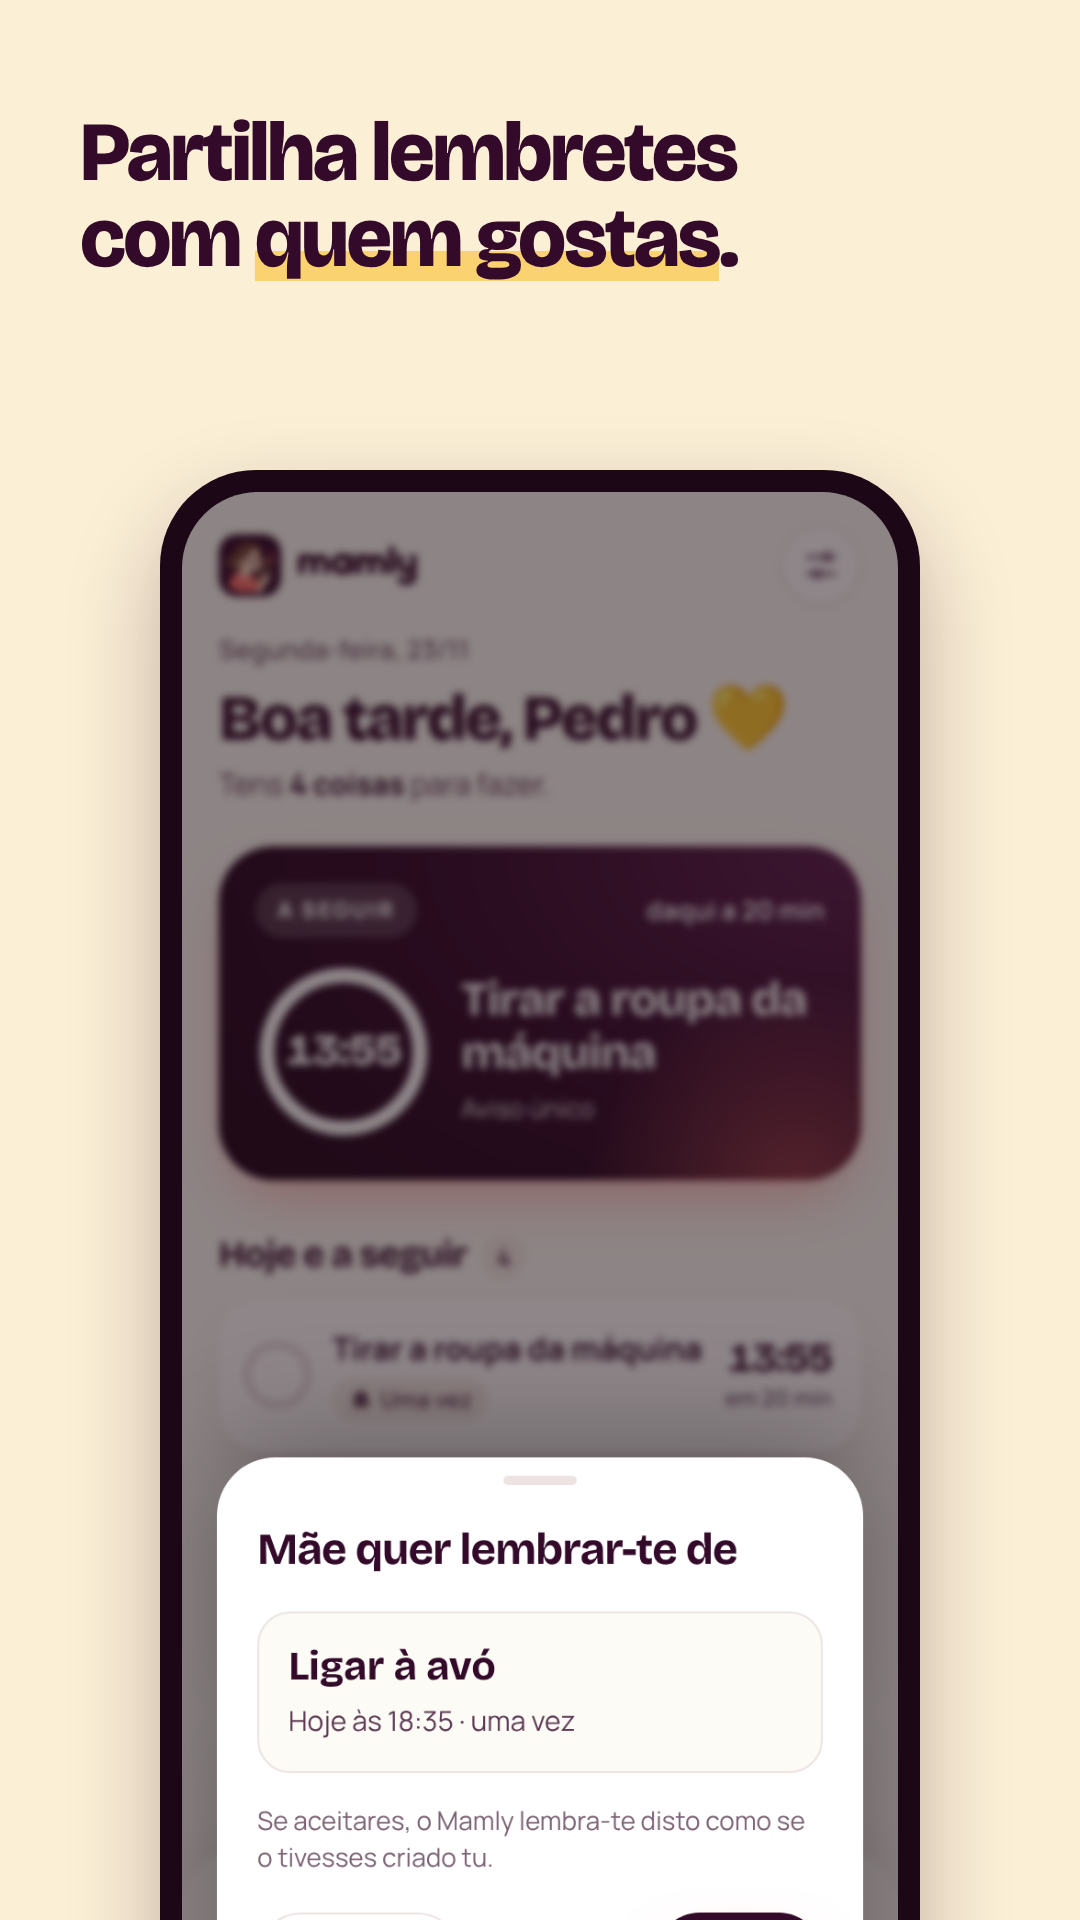
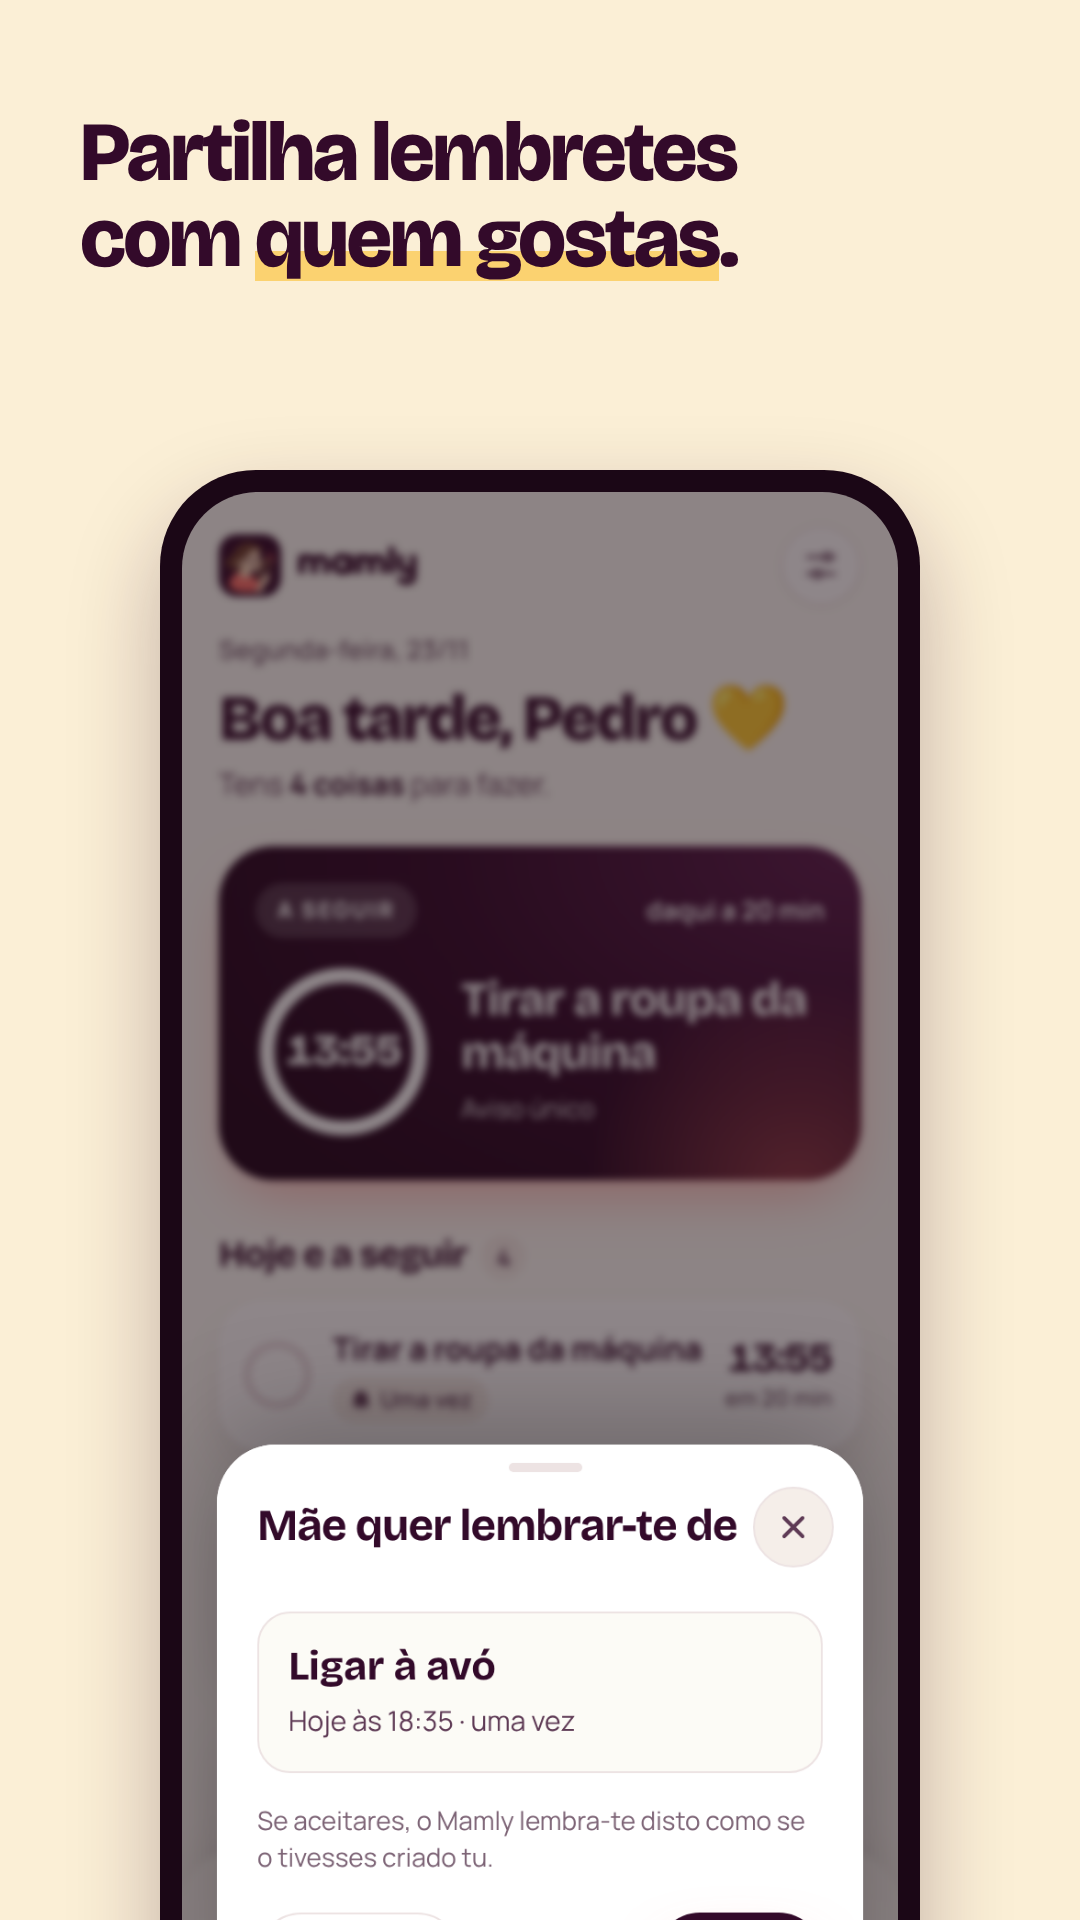
Refresh app screenshots with the new example; show repeat info on alerts
- store/app-shots.js regenerates the site screenshots (PT and EN) from the
  real web app; Play Store images and Instagram post 1 rebuilt from them.
- The full-screen alert for repeating reminders without a deadline now says
  e.g. "De meia em meia hora até às 17:00" instead of nothing. Version 3.1 (22).

Claude-Session: https://claude.ai/code/session_01Vz2moDb866Xe6U8hfWhM98

Changed region(s): [[0.1833, 0.75, 0.7944, 0.8125]]

diff --git a/store/app-shots.js b/store/app-shots.js
@@ -1,0 +1,70 @@
+// Refaz as capturas da app usadas no site, na Play Store e no Instagram.
+// node store/app-shots.js   (depois: node store/gen.js e node store/instagram-posts.js)
+const { chromium } = require('playwright');
+const http = require('http'), fs = require('fs'), path = require('path');
+const root = path.resolve(__dirname, '..');
+const WEB = path.join(root, 'web');
+const TYPES = { '.html': 'text/html', '.js': 'text/javascript', '.css': 'text/css', '.svg': 'image/svg+xml', '.png': 'image/png', '.woff2': 'font/woff2', '.webmanifest': 'application/json' };
+
+const LANGS = {
+  pt: {
+    out: 'site/img', locale: 'pt-PT', name: 'Pedro',
+    say: ['De 30 em 30 minutos das 13h às 17h avisa-me para pagar a conta da luz', 'Daqui a 20 minutos tirar a roupa da máquina', 'De meia em meia hora beber água', 'Amanhã às 9 ligar ao dentista'],
+    alert: ['Pagar a conta da luz', 'Lembrete', 'De meia em meia hora até às 17:00'],
+    share: ['Ligar à avó', 'Mãe'],
+  },
+  en: {
+    out: 'site/img/en', locale: 'en-GB', name: 'Sam',
+    say: ['Every 30 minutes from 1pm to 5pm remind me to pay the electricity bill', 'In 20 minutes take the laundry out', 'Every half hour drink water', 'Tomorrow at 9 call the dentist'],
+    alert: ['Pay the electricity bill', 'Reminder', 'Every half hour until 17:00'],
+    share: ['Call grandma', 'Mom'],
+  },
+};
+
+(async () => {
+  const server = http.createServer((req, res) => {
+    let f = path.join(WEB, decodeURIComponent(req.url.split(/[?#]/)[0]));
+    if (f.endsWith('/')) f += 'index.html';
+    if (!f.startsWith(WEB) || !fs.existsSync(f)) { res.writeHead(404); return res.end(); }
+    res.writeHead(200, { 'Content-Type': TYPES[path.extname(f)] || 'application/octet-stream' });
+    fs.createReadStream(f).pipe(res);
+  }).listen(0);
+  const URL = 'http://localhost:' + server.address().port + '/';
+  const b = await chromium.launch();
+
+  for (const T of Object.values(LANGS)) {
+    const OUT = path.join(root, T.out);
+    const mk = async (scheme) => {
+      const ctx = await b.newContext({ viewport: { width: 390, height: 844 }, deviceScaleFactor: 2, colorScheme: scheme, reducedMotion: 'reduce', locale: T.locale });
+      const page = await ctx.newPage();
+      await page.clock.install({ time: new Date(2026, 10, 23, 13, 35) });
+      await page.addInitScript(() => {
+        window.AndroidBridge = { version(){return '3.0'}, log(){}, voices(){return '[]'}, setVoice(){}, speak(t,r,tok){ setTimeout(()=>__native.onSpeakDone(tok),5); }, stopSpeaking(){}, listen(){}, stopListening(){}, sync(){}, takeActions(){ return '[]'; }, cancelNotification(){}, keepScreenOn(){}, testNow(){}, diag(){ return '{}'; }, status(){ return '{"notifications":true,"exact":true,"battery":true,"tts":true}'; }, openBatterySettings(){}, openNotificationSettings(){}, openAlarmSettings(){}, openVoiceInstall(){}, openTtsSettings(){}, share(){}, takeSharedLink(){ return ''; } };
+      });
+      await page.goto(URL);
+      await page.evaluate((name) => { localStorage.clear(); localStorage.setItem('lembretes.settings.v1', JSON.stringify({ name, momMode: true })); }, T.name);
+      await page.reload();
+      for (const t of T.say) { await page.evaluate(t => window.__lembretes.handleInput(t), t); await page.clock.runFor(300); }
+      await page.clock.runFor(10000);
+      await page.evaluate(() => { document.getElementById('toast').hidden = true; });
+      return page;
+    };
+    const light = await mk('light');
+    await light.screenshot({ path: `${OUT}/ecra-inicio.png` });
+    await light.evaluate(([task, kicker, meta]) => { document.getElementById('alert').hidden = false; document.getElementById('alertTask').textContent = task; document.getElementById('alertKicker').textContent = kicker; document.getElementById('alertMeta').textContent = meta; }, T.alert);
+    await light.screenshot({ path: `${OUT}/ecra-aviso.png` });
+    await light.evaluate(() => { document.getElementById('alert').hidden = true; });
+    await light.click('#openSettings'); await light.waitForTimeout(300);
+    await light.evaluate(() => { document.getElementById('sMom').closest('label').scrollIntoView({ block: 'center' }); });
+    await light.waitForTimeout(200);
+    await light.screenshot({ path: `${OUT}/ecra-modo-mae.png` });
+    await light.evaluate(() => document.getElementById('settingsDlg').close());
+    await light.evaluate(([t, n]) => { const data = { v: 1, t, i: 0, o: 1, f: Date.now() + 5 * 3600e3, e: 0, d: 0, n };
+      location.hash = 'r=' + btoa(unescape(encodeURIComponent(JSON.stringify(data)))).replace(/\+/g, '-').replace(/\//g, '_').replace(/=+$/, ''); }, T.share);
+    await light.waitForTimeout(500);
+    await light.screenshot({ path: `${OUT}/ecra-partilha.png` });
+    const dark = await mk('dark');
+    await dark.screenshot({ path: `${OUT}/ecra-escuro.png` });
+  }
+  await b.close(); server.close(); console.log('ok');
+})();

diff --git a/web/app.js b/web/app.js
@@ -433,7 +433,8 @@
     $('alert').scrollTop = 0;
     $('alertKicker').textContent = (EN ? { final: 'Last call', deadline: "Time's up", snooze: 'Again', once: "It's time" } : { final: 'Último aviso', deadline: 'Hora limite', snooze: 'Outra vez', once: 'Está na hora' })[kind] || L('Lembrete', 'Reminder');
     $('alertTask').textContent = r.text;
-    const left = r.hasDeadline && r.end > Date.now() ? L('Tens até às ', 'You have until ') + hm(r.end) + L(' · faltam ', ' · ') + sayDuration(r.end - Date.now()) + L('', ' left') : '';
+    const left = r.hasDeadline && r.end > Date.now() ? L('Tens até às ', 'You have until ') + hm(r.end) + L(' · faltam ', ' · ') + sayDuration(r.end - Date.now()) + L('', ' left')
+      : !r.once && r.interval ? shortInterval(r.interval) + (r.end ? L(' até às ', ' until ') + hm(r.end) : '') : '';
     $('alertMeta').textContent = left;
   }
   function hideAlert() { $('alert').hidden = true; current = null; stopListening(); }

diff --git a/store/instagram-posts.js b/store/instagram-posts.js
@@ -25,7 +25,7 @@ const posts = {
   '1-apresentacao': `<div class="p" style="background:${C.cream};color:${C.plum}">
     <h1 style="font-size:120px">A mãe que te<br>lembra de tudo.<br><span class="hl">Em voz alta.</span></h1>
     <p style="font-size:38px;color:${C.ink2};margin:40px 0 0;max-width:440px;line-height:1.35">Lembretes falados, mesmo com o telemóvel bloqueado.</p>
-    <div class="phone" style="right:-60px;top:660px;width:470px"><img src="${u('site/img/ecra-aviso.png')}"></div>
+    <div class="phone" style="right:72px;top:640px;width:430px"><img src="${u('site/img/ecra-aviso.png')}"></div>
     ${brand(C.plum)}</div>`,
   '2-diz-nao-escrevas': `<div class="p" style="background:${C.coralSoft};color:${C.plum}">
     <h1 style="font-size:104px">Diz.<br><span class="hl">Não escrevas.</span></h1>
